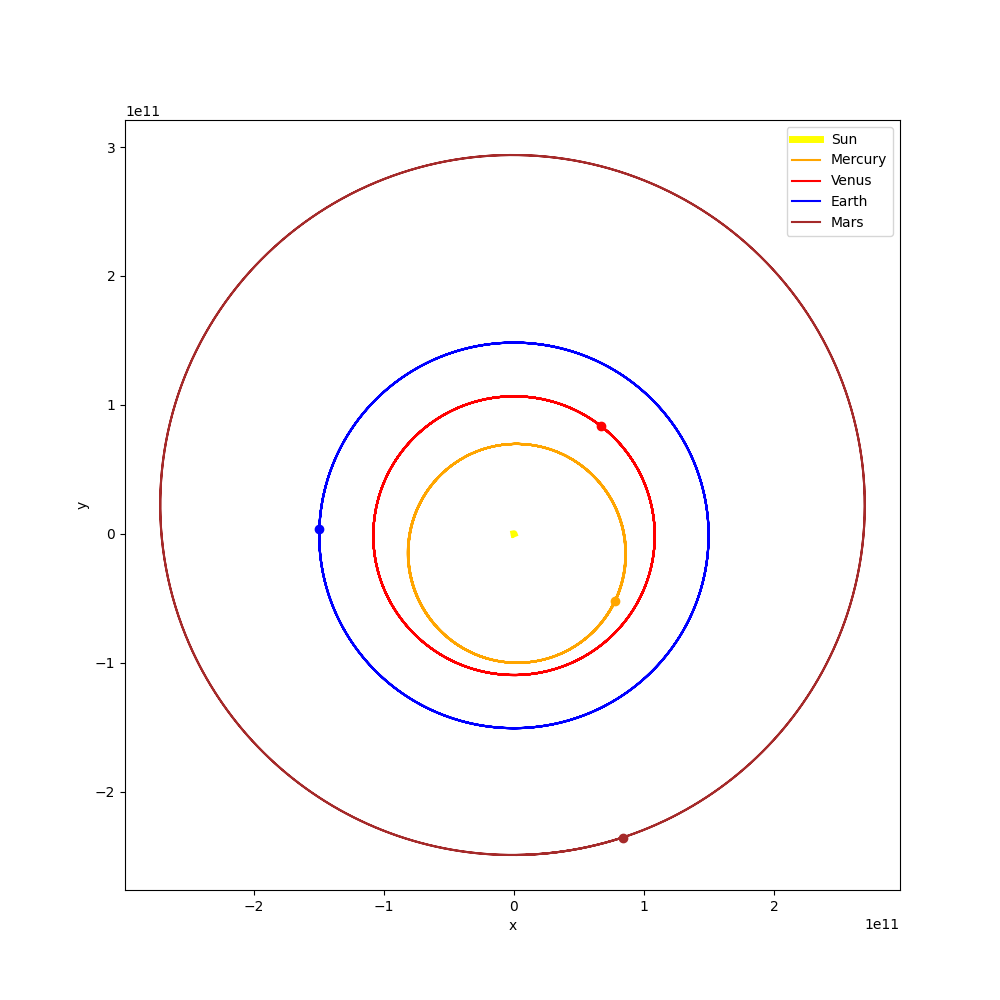
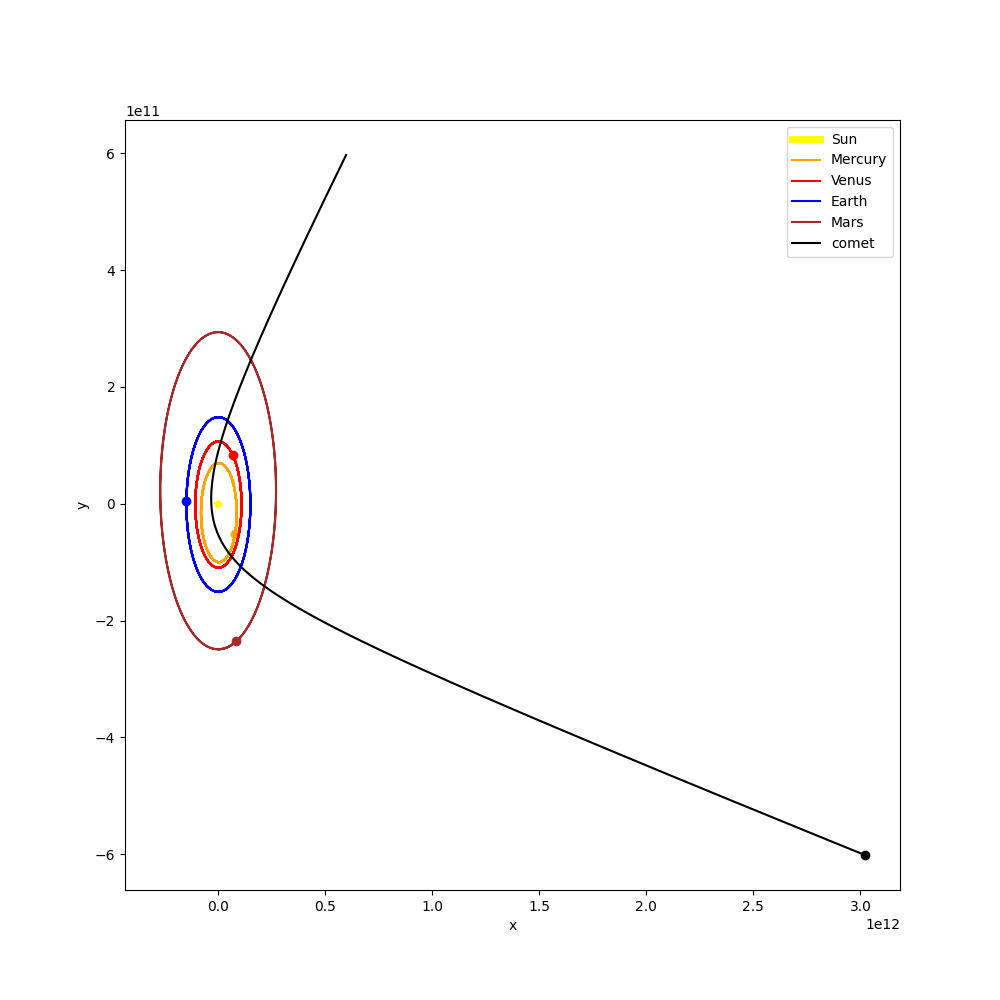
Changes to be committed: 	modified:   Universe.py 	modified:   __pycache__/Universe.cpython-39.pyc 	modified:   solar_system.png 	modified:   ss.py

diff --git a/Vjezbe/Vjezbe_11+/ss.py b/Vjezbe/Vjezbe_11+/ss.py
@@ -1,3 +1,4 @@
+from matplotlib.animation import FuncAnimation
 import Universe as uni
 import numpy as np
 import matplotlib.pyplot as plt
@@ -5,11 +6,15 @@ import matplotlib.pyplot as plt
 au, day = 1.496e11, 60*60*24
 year = 365.242 * day
 
+
 sun = uni.Planet(1.989e30, np.array([0,0]), np.array([0,0]))
 mercury = uni.Planet(3.3e24, np.array([0,0.466*au]), np.array([-47362,0]))
 venus = uni.Planet(4.8685e24, np.array([0.723*au,0]), np.array([0,35020]))
-earth = uni.Planet(5.9742e24, np.array([-au,0]), np.array([0,29783]))
+earth = uni.Planet(5.9742e24, np.array([-au,0]), np.array([0,-29783]))
 mars = uni.Planet(6.417e23, np.array([0,-1.666*au]), np.array([24007,0]))
+
+comet = uni.Planet(1.989e15, np.array([4*au, 4*au]), np.array([-10000, -15000]))
+# comet = uni.Planet(1.989e13, np.array([4*au, 4*au]), np.array([-10000, -15000]))
 
 ss = uni.Universe()
 
@@ -18,27 +23,82 @@ ss.create(mercury)
 ss.create(venus)
 ss.create(earth)
 ss.create(mars)
+ss.create(comet)
 
 ss.evolve(5 * year, day)
 
-fig = plt.figure(figsize=(10, 10))
+fig, ax = plt.figure(figsize=(10, 10)), plt.axes(xlim=(-10*au, 10*au), ylim=(-10*au, 10*au))
+
+line, = ax.plot([], [], 'o',color="brown")
+line1, = ax.plot([], [], 'o',color="red")
+line2, = ax.plot([], [], 'o',color="orange")
+line3, = ax.plot([], [], 'o',color="blue")
+line4, = ax.plot([], [], 'o',color="yellow")
+line5, =ax.plot([], [], 'o', color="black")
 
 plt.plot(sun.xcoords, sun.ycoords, label="Sun", color="yellow", linewidth=5.0)
 
 plt.plot(mercury.xcoords, mercury.ycoords, label="Mercury", color="orange")
-plt.plot(mercury.xcoords[-1], mercury.ycoords[-1], 'o', color="orange")
 
 plt.plot(venus.xcoords, venus.ycoords, label="Venus", color="red")
-plt.plot(venus.xcoords[-1], venus.ycoords[-1], 'o', color="red")
 
 plt.plot(earth.xcoords, earth.ycoords, label="Earth", color="blue")
-plt.plot(earth.xcoords[-1], earth.ycoords[-1], 'o', color="blue")
 
 plt.plot(mars.xcoords, mars.ycoords, label="Mars", color="brown")
-plt.plot(mars.xcoords[-1], mars.ycoords[-1], 'o', color="brown")
 
-plt.xlabel("x")
-plt.ylabel("y")
-plt.legend(loc="upper right")
-plt.savefig("solar_system")
+plt.plot(comet.xcoords, comet.ycoords, label="comet", color="black")
+
+xmer, xven, xear, xmar, xsun, xcom = [], [], [], [], [], []
+ymer, yven, year, ymar, ysun, ycom = [], [], [], [], [], []
+
+
+def init():
+
+    line.set_data([], [])
+    line1.set_data([], [])
+    line2.set_data([], [])
+    line3.set_data([], [])
+    line4.set_data([], [])
+    line5.set_data([], [])
+
+    return line, line1, line2, line3, line4, 
+
+
+def animate(i):
+
+    xsun.append(sun.xcoords[i])
+    ysun.append(sun.ycoords[i])
+
+    xmer.append(mercury.xcoords[i])
+    ymer.append(mercury.ycoords[i])
+    
+    xven.append((venus.xcoords[i]))
+    yven.append((venus.ycoords[i]))
+
+    xear.append((earth.xcoords[i]))
+    year.append((earth.ycoords[i]))
+
+    xmar.append((mars.xcoords[i]))
+    ymar.append((mars.ycoords[i]))
+    
+    xcom.append(comet.xcoords[i])
+    ycom.append(comet.ycoords[i])
+
+    line.set_data(xmer[i], ymer[i])
+    line1.set_data(xven[i], yven[i])
+    line2.set_data(xear[i], year[i])
+    line3.set_data(xmar[i], ymar[i])
+    line4.set_data(xsun[i], ysun[i])
+    line5.set_data(xcom[i],ycom[i])
+
+    # ax.plot(xven, yven, color="gray")
+    # ax.plot(xear, year, color="blue")
+    # ax.plot(xmar, ymar, color="red")
+
+    return line,
+
+# plt.xlabel("x")
+# plt.ylabel("y")
+#plt.legend(loc="upper right")
+anim = FuncAnimation(fig, animate, init_func=init, interval=1)
 plt.show()

diff --git a/Vjezbe/Vjezbe_11+/Universe.py b/Vjezbe/Vjezbe_11+/Universe.py
@@ -1,5 +1,6 @@
 import math as m
 import numpy as np
+from matplotlib.animation import FuncAnimation
 
 
 class Universe:
@@ -17,11 +18,11 @@ class Universe:
     def __move(self, dt):
 
         for i in range(len(self.planets)):
-            ga = np.array([0,0])
+            ga = np.array([0.,0.])
             
             for j in range(len(self.planets)):
                 if i != j:
-                    ga = ga + self.planets[i].GFA(self.planets[j])
+                    ga += self.planets[i].GFA(self.planets[j])
                     # jel mozete dodatno pojasniti zasto se u liniji iznad mora pisati ga = ga...
                     # umjesti ga +=... , inace izacuje error
                     #numpy.core._exceptions.UFuncTypeError: Cannot cast ufunc 'add' output from
